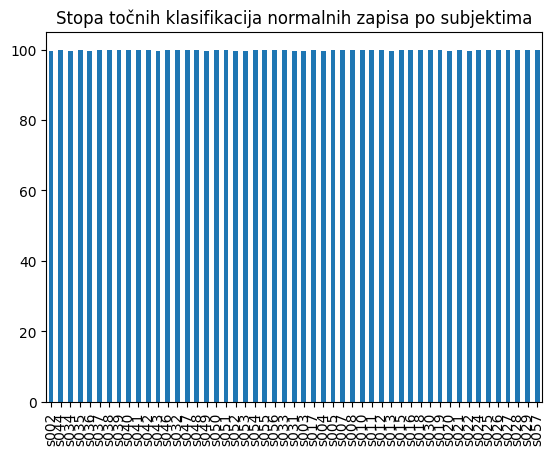
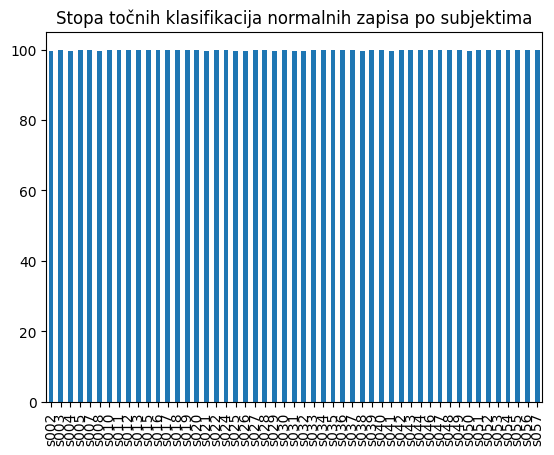
Implement saving of statistical data, correct dataset splitting

Changed region(s): [[0.0921, 0.8923, 0.9819, 0.9538]]

diff --git a/functions.py b/functions.py
@@ -1,5 +1,4 @@
 import numpy as np
-from numpy import ravel
 import pandas as pd
 from pandas import DataFrame
 from sklearn.model_selection import train_test_split
@@ -7,8 +6,9 @@ from sklearn.preprocessing import StandardScaler
 from sklearn.ensemble import RandomForestClassifier
 from sklearn.metrics import confusion_matrix, precision_score, accuracy_score
 import matplotlib.pyplot as plt
+import time
 
-def prepareForModelUse(populatedDataframe: DataFrame):
+def prepareForModelUse(populatedDataframe: DataFrame, index):
     
     # Uklanjanje nepotrebnih svojstava skupa podataka
     populatedDataframe.drop('sessionIndex', axis = 1, inplace = True)
@@ -16,19 +16,33 @@ def prepareForModelUse(populatedDataframe: DataFrame):
 
     # Razdvajanje skupa podataka na 2 cjeline. Y oznacava skup podataka
     # koji sadrzi korisnike dok je X skup podataka kojega model strojnog
-    # ucenja treba razvrstati (prepoznati) prema skupu X
-    X = populatedDataframe[['H.period', 'DD.period.t', 
-    'UD.period.t', 'H.t', 'DD.t.i', 'UD.t.i', 'H.i', 'DD.i.e', 
-    'UD.i.e', 'H.e', 'DD.e.five', 'UD.e.five', 'H.five', 'DD.five.Shift.r', 
-    'UD.five.Shift.r', 'H.Shift.r', 'DD.Shift.r.o', 'UD.Shift.r.o', 'H.o',
-    'DD.o.a', 'UD.o.a', 'H.a', 'DD.a.n', 'UD.a.n', 'H.n', 'DD.n.l', 'UD.n.l',
-    'H.l', 'DD.l.Return', 'UD.l.Return', 'H.Return']]
+    # ucenja treba razvrstati (prepoznati) prema skupu Y
+    X = populatedDataframe.iloc[:, 1:]
     Y = populatedDataframe['subject']
+
+    # Priprema polja za skupove treniranja i testiranja. Pocetna inicijalizacija
+    # je potrebna zbog zadrzavanja originalnog poredka subjekata
+    X_train, X_test, y_train, y_test = [], [], [], []
 
     # Podijeli prethodne skupove podataka na skupove za treniranje modela 
     # strojnog ucenja i skupove za testiranje modela strojnog ucenja
-    X_train, X_test, y_train, y_test = train_test_split(
-    X, Y, random_state=104,test_size=0.25, shuffle=True)
+    for subject in index:
+        subjectData = populatedDataframe[populatedDataframe['subject'] == subject]
+        trainData, testData = train_test_split(subjectData, test_size=0.2, random_state=42)
+        
+        X_train.append(trainData.iloc[:, 1:])
+        y_train.extend(trainData['subject'])
+        
+        X_test.append(testData.iloc[:, 1:])
+        y_test.extend(testData['subject'])
+
+    # Dodavanje podataka u liste
+    X_train = pd.concat(X_train, axis=0)
+    X_test = pd.concat(X_test, axis=0)
+
+    # Pretvorba popunjenih lista u 'DataFrame'
+    y_train = pd.Series(y_train)
+    y_test = pd.Series(y_test)
 
     # Normaliziranje skupova podataka kako bi predvidanje modela 
     # bilo sto preciznije
@@ -39,10 +53,16 @@ def prepareForModelUse(populatedDataframe: DataFrame):
     return X_train, X_test, y_train, y_test
 
 def useModel(trainDF_Y, trainDF_X, y_test, testDF_X, model: RandomForestClassifier):
+    startTime = time.time()
     model.fit(trainDF_X, trainDF_Y.values.ravel())
+    endTime = time.time()
+    trainingTime = endTime - startTime
+    startTime = time.time()
     prediction = model.predict(testDF_X)
+    endTime = time.time()
+    testingTime = endTime - startTime
     confusionMatrix = confusion_matrix(y_test, prediction)
-    return confusionMatrix, prediction
+    return confusionMatrix, prediction, trainingTime, testingTime
 
 def calculateStatisticalData(confusionMatrix: confusion_matrix, y_test, prediction):
     truePositive = np.diag(confusionMatrix)
@@ -70,13 +90,6 @@ def calculateStatisticalData(confusionMatrix: confusion_matrix, y_test, predicti
     return statisticalData
 
 def plotStatisticalData(statisticalData: dict, index):
-    # # Preciznost
-    # precisonValuesDF = pd.DataFrame(list(statisticalData.get("precision")), index = ['Vrijednosti pokazatelja'])
-    # precisonValuesDF.plot(kind = 'bar')
-    # plt.xticks(rotation=0)
-    # plt.title('Preciznost pojedinog modela')
-    # plt.legend(bbox_to_anchor=(1.02, 0.1), loc='upper left', borderaxespad=0)
-    # plt.savefig('precision.png',bbox_inches='tight')
     # Opoziv
     recallValuesDF = pd.DataFrame(list(statisticalData.get("recall")), index = index)
     recallValuesDF.plot(kind = 'bar')
@@ -84,6 +97,7 @@ def plotStatisticalData(statisticalData: dict, index):
     plt.title('Opoziv po kategorijama')
     plt.legend().remove()
     plt.savefig('recall.png',bbox_inches='tight')
+    
     # FPR
     falsePositiveValuesDF = pd.DataFrame(statisticalData.get("falsePositiveRate"), index = index)
     falsePositiveValuesDF.plot(kind = 'bar')
@@ -91,6 +105,7 @@ def plotStatisticalData(statisticalData: dict, index):
     plt.title('Stopa pogrešnih klasifikacija po subjektima')
     plt.legend().remove()
     plt.savefig('fpr.png',bbox_inches='tight')
+    
     # TNR
     trueNegativeValuesDF = pd.DataFrame(statisticalData.get("trueNegativeRate"), index = index)
     trueNegativeValuesDF.plot(kind = 'bar')
@@ -98,13 +113,7 @@ def plotStatisticalData(statisticalData: dict, index):
     plt.title('Stopa točnih klasifikacija normalnih zapisa po subjektima')
     plt.legend().remove()
     plt.savefig('tnr.png',bbox_inches='tight')
-    # # Točnost
-    # accuracyValuesDF = pd.DataFrame(statisticalData.get("accuracy"), index = ['Vrijednosti pokazatelja'])
-    # accuracyValuesDF.plot(kind = 'bar')
-    # plt.xticks(rotation=0)
-    # plt.title('Točnost modela')
-    # plt.legend(bbox_to_anchor=(1.02, 0.1), loc='upper left', borderaxespad=0)
-    # plt.savefig('accuracy.png',bbox_inches='tight')
+
     # F-mjera
     fMeassureValuesDF = pd.DataFrame(statisticalData.get("fMeassure"), index = index)
     fMeassureValuesDF.plot(kind = 'bar')
@@ -112,4 +121,31 @@ def plotStatisticalData(statisticalData: dict, index):
     plt.title('F-mjera modela po subjektima')
     plt.legend().remove()
     plt.savefig('fMeassure.png',bbox_inches='tight')
+    return
+
+def saveToExcel(statisticalData: dict, trainingTime, testingTime, index):
+    simpleStatisticsDataFrame = pd.DataFrame(index = ['Vrijeme treniranja', 'Vrijeme testiranja', 'Preciznost', 'Tocnost'])
+    simpleStatisticsDataFrame["Jednostavni pokazatelji"] = [trainingTime, testingTime, statisticalData.get("accuracy"), statisticalData.get("precision")]
+    classificationStatisticsDataFrame = pd.DataFrame(index = index)
+    classificationStatisticsDataFrame['TP'] = statisticalData.get("truePositive")
+    classificationStatisticsDataFrame['FP'] = statisticalData.get("falsePositive")
+    classificationStatisticsDataFrame['FN'] = statisticalData.get("falseNegative")
+    classificationStatisticsDataFrame['TN'] = statisticalData.get("trueNegative")
+    classificationStatisticsDataFrame['FPR'] = statisticalData.get("falsePositiveRate")
+    classificationStatisticsDataFrame['TNR'] = statisticalData.get("trueNegativeRate")
+    classificationStatisticsDataFrame['Opoziv'] = statisticalData.get("recall")
+    classificationStatisticsDataFrame['F-mjera'] = statisticalData.get("fMeassure")
+    
+    fileName = 'Statisticki podaci modela.xlsx'
+    writer = pd.ExcelWriter(fileName, engine = 'xlsxwriter', engine_kwargs={'options':{'strings_to_formulas': False}})
+    workbook = writer.book
+    worksheet = workbook.add_worksheet("Statistika")
+    worksheet.set_column(0, 0, 20)
+    worksheet.set_column(1, 1, 18)
+    worksheet.set_column(3, 7, 10)
+    worksheet.set_column(8, 11, 12)
+    writer.sheets["Statistika"] = worksheet
+    simpleStatisticsDataFrame.to_excel(writer, sheet_name = "Statistika", startrow = 0, startcol = 0)
+    classificationStatisticsDataFrame.to_excel(writer, sheet_name = "Statistika", startrow = 0, startcol = 3)
+    writer.close()
     return

diff --git a/main.py b/main.py
@@ -1,15 +1,11 @@
 # 1. Inicijalizacija programa #
 
 # Uvoz potrebnih varijabli
-from colorama import Fore, Style
 from pathlib import Path
 import pandas as pd
-import time
-import numpy as np
-from sklearn.metrics import confusion_matrix, precision_score, accuracy_score
 from sklearn.ensemble import RandomForestClassifier
 import matplotlib.pyplot as plt
-from functions import prepareForModelUse, useModel, calculateStatisticalData, plotStatisticalData
+from functions import prepareForModelUse, useModel, calculateStatisticalData, plotStatisticalData, saveToExcel
 
 # 2. Dohvat i priprena skupa podataka #
 
@@ -18,18 +14,17 @@ currentPath = Path(__file__).parent.absolute()
 datasetFilePath = Path.joinpath(currentPath, "DSL-StrongPasswordData.csv")
 
 # Spremanje skupa podataka u "Dataframe"
-datasetDF = pd.read_csv(datasetFilePath)
+datasetDataFrame = pd.read_csv(datasetFilePath)
 
 # Spremanje liste subjekata za kasnije koristenje s 
 # statistickim podacima
-subjectsListDF = datasetDF['subject'].value_counts()
-index = subjectsListDF.index.tolist()
+index = datasetDataFrame['subject'].unique()
 
 # 3. Priprema skupa podataka #
 
 # Koristenje napravljene metode za pripremu skupa podataka 
 # za unos u model strojng ucenja
-X_train, X_test, y_train, y_test = prepareForModelUse(datasetDF)
+X_train, X_test, y_train, y_test = prepareForModelUse(datasetDataFrame, index = index)
 
 # 4. Unos skupa podataka u model strojnog ucenja #
 
@@ -37,12 +32,18 @@ X_train, X_test, y_train, y_test = prepareForModelUse(datasetDF)
 modelRF = RandomForestClassifier(n_estimators = 30)
 
 # Koristenje napravljene metode za rad nad modelom strojnog ucenja
-confusionMatrix, prediction = useModel(y_train, X_train, y_test, X_test, modelRF)
+confusionMatrix, prediction, trainingTime, testingTime = useModel(y_train, X_train, y_test, X_test, modelRF)
 
 # 5. Izracun statistickih pokazatelja modela strojnog ucenja #
 
-# TODO Opis metode za izracun statistike
+# Metoda sluzi za izracun statisticki pokazatelja, odnosno
+# sluzi za izracun performansi modela strojnog ucenja
 statisticalData = calculateStatisticalData(confusionMatrix, y_test, prediction)
 
-# TODO Opis metode za crtanje
+# Metoda kojom se iscrtavaju grafovi odabranih pokazatelja kako bi 
+# smo kasnije detaljno analizirali rad modela
 plotStatisticalData(statisticalData, index)
+
+# Metoda koja sluzi za perzistenciju podataka. Izracunate statisticke
+# pokazatelje spremamo u Excel datoteku
+saveToExcel(statisticalData, trainingTime, testingTime, index)
